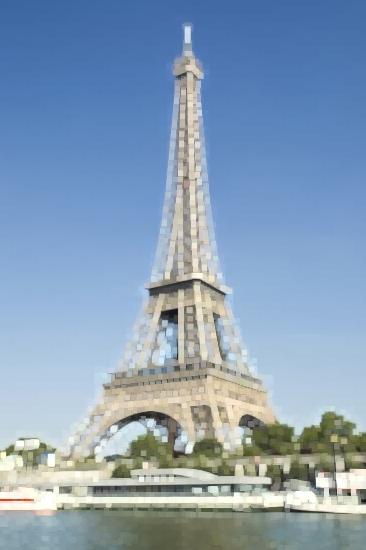
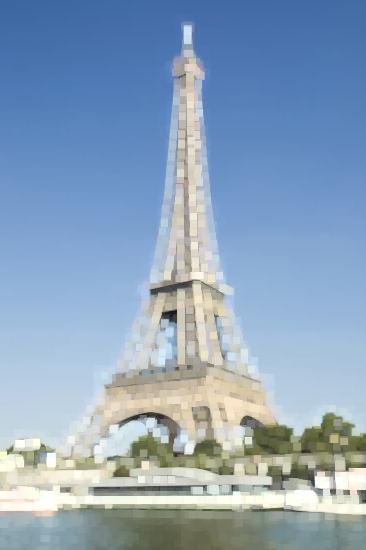
story 1 à 6

diff --git a/main.py b/main.py
@@ -1,4 +1,4 @@
-from PIL import Image, ImageFilter
+from PIL import Image, ImageFilter, ImageDraw, ImageFont
 
 image = Image.open("img/La_tour_Eiffel.jpeg")
 
@@ -27,11 +27,47 @@ image_flou.save("./img/output/img_flou.jpeg")
 
 def dilatation_img(image):
     # Appliquer une dilatation a l'image
-    image_dilatation = image.filter(ImageFilter.MaxFilter(8))
+    image_dilatation = image.filter(ImageFilter.MaxFilter(7))
     return image_dilatation
 
 image_dilatation = dilatation_img(image)
 image_dilatation.show()
 image_dilatation.save("./img/output/img_dilatation.jpeg")
+
+def rotate_img(image):
+    # Pivoter l'image selon un angle spécifié
+    rotate_image = image.rotate(25)
+    return rotate_image
+
+rotate_image = rotate_img(image)
+rotate_image.show()
+rotate_image.save("./img/output/img_rotate.jpeg")
+
+def resize_img(image):
+    # Redimensionner l'image selon des dimensions specifiées
+    resize_image = image.resize((250, 250))
+    return resize_image
+
+resize_image = resize_img(image)
+resize_image.show()
+resize_image.save("./img/output/img_resize.jpeg")
+
+def image_text(image):
+    font = ImageFont.truetype("fonts/Gidole-Regular.ttf", 34)
+    text = image.copy()
+    draw = ImageDraw.Draw(text)
+    draw.text((32, 20), "Hello Paris!", (255, 198, 32), font=font)
+    return text
+
+text_image = image_text(image)
+text_image.show()
+text_image.save("img/output/img_texte.png")
+
+
+
+
+
+
+
 
 
